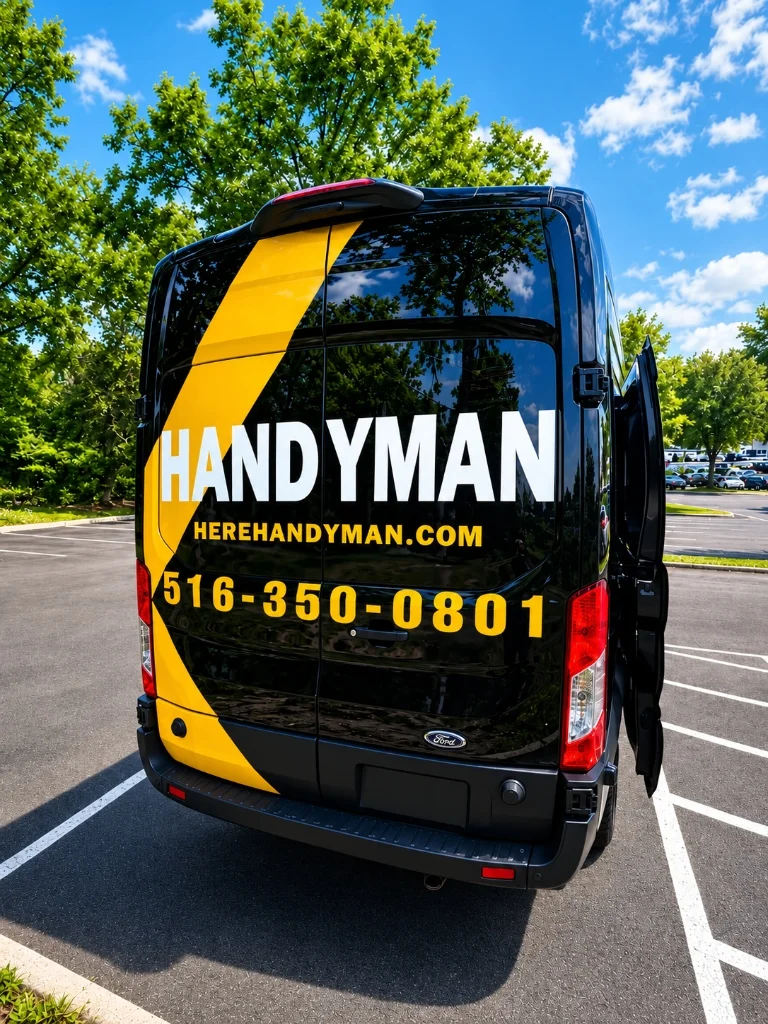
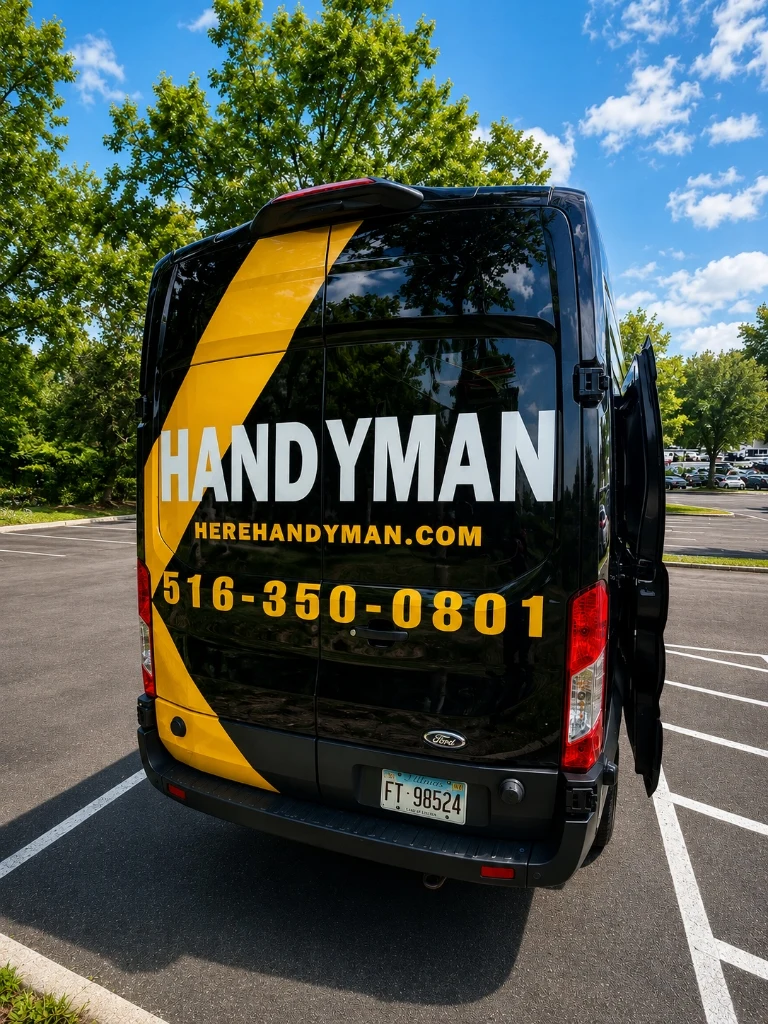
revert(media): rollback About Me section image to previous service vehicle photo (staff_new.webp)

diff --git a/about.html b/about.html
@@ -549,7 +549,7 @@ height="0" width="0" style="display:none;visibility:hidden"></iframe></noscript>
 
 <section class="about-section">
     <div class="about-image">
-        <img src="/assets/images/webherehandyman.webp" alt="David – Owner & Lead Handyman at Here Handyman in Westchester County NY" width="768" height="1024">
+        <img src="/assets/images/staff_new.webp" alt="Here Handyman official service vehicle – Westchester County NY professional handyman" width="768" height="1024">
         
         <div class="experience-badge">
             <strong>23+</strong>

diff --git a/index.html b/index.html
@@ -2336,7 +2336,7 @@ height="0" width="0" style="display:none;visibility:hidden"></iframe></noscript>
 
         <div class="about-img-wrap">
 
-          <img src="/assets/images/webherehandyman.webp" alt="David – Owner & Lead Handyman at Here Handyman in Westchester County NY" width="768" height="1024" loading="lazy">
+          <img src="/assets/images/staff_new.webp" alt="Here Handyman official service vehicle – Westchester County NY professional handyman" width="768" height="1024" loading="lazy">
 
           <div class="experience-badge" aria-hidden="true">
 
